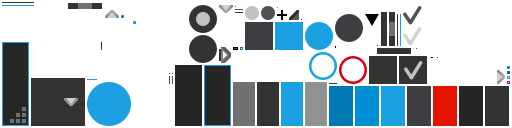
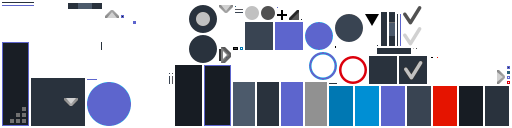
Changed the style.

diff --git a/core/src/net/pixelstatic/pixeleditor/modules/Main.java b/core/src/net/pixelstatic/pixeleditor/modules/Main.java
@@ -2,6 +2,7 @@ package net.pixelstatic.pixeleditor.modules;
 
 import java.lang.reflect.Field;
 
+import net.pixelstatic.gdxutils.graphics.Hue;
 import net.pixelstatic.gdxutils.graphics.Textures;
 import net.pixelstatic.pixeleditor.PixelEditor;
 import net.pixelstatic.pixeleditor.graphics.Palette;
@@ -16,19 +17,16 @@ import net.pixelstatic.utils.AndroidKeyboard;
 import net.pixelstatic.utils.MiscUtils;
 import net.pixelstatic.utils.dialogs.AndroidTextFieldDialog;
 import net.pixelstatic.utils.dialogs.TextFieldDialog;
+import net.pixelstatic.utils.io.TextureUnpacker;
 import net.pixelstatic.utils.modules.Module;
-import net.pixelstatic.utils.scene2D.AndroidColorPicker;
-import net.pixelstatic.utils.scene2D.ColorBox;
-import net.pixelstatic.utils.scene2D.SmoothCollapsibleWidget;
+import net.pixelstatic.utils.scene2D.*;
 
 import com.badlogic.gdx.Gdx;
 import com.badlogic.gdx.Preferences;
 import com.badlogic.gdx.files.FileHandle;
 import com.badlogic.gdx.graphics.Color;
-import com.badlogic.gdx.graphics.GL20;
-import com.badlogic.gdx.graphics.g2d.BitmapFont;
-import com.badlogic.gdx.graphics.g2d.TextureAtlas;
-import com.badlogic.gdx.graphics.g2d.TextureRegion;
+import com.badlogic.gdx.graphics.g2d.*;
+import com.badlogic.gdx.graphics.g2d.TextureAtlas.TextureAtlasData;
 import com.badlogic.gdx.graphics.g2d.freetype.FreeTypeFontGenerator;
 import com.badlogic.gdx.graphics.g2d.freetype.FreeTypeFontGenerator.FreeTypeFontParameter;
 import com.badlogic.gdx.scenes.scene2d.Actor;
@@ -54,6 +52,7 @@ public class Main extends Module<PixelEditor>{
 	public static Main i;
 	public static float s = 1f; //density scale
 	public final int largeImageSize = 128*128;
+	public final Color clearcolor = Color.valueOf("171c23");
 	public DrawingGrid drawgrid;
 	public Stage stage;
 	public FileHandle projectDirectory;
@@ -75,8 +74,7 @@ public class Main extends Module<PixelEditor>{
 
 	@Override
 	public void update(){
-		Gdx.gl.glClearColor(0.13f, 0.13f, 0.13f, 1);
-		Gdx.gl.glClear(GL20.GL_COLOR_BUFFER_BIT);
+		Hue.clearScreen(clearcolor);
 
 		if(FocusManager.getFocusedWidget() != null && ( !(FocusManager.getFocusedWidget() instanceof VisTextField))) FocusManager.resetFocus(stage);
 		
@@ -283,6 +281,7 @@ public class Main extends Module<PixelEditor>{
 
 			box.addListener(new ClickListener(){
 				public void clicked(InputEvent event, float x, float y){
+					apicker.addColorToPalette(boxes[paletteColor].getColor().cpy());
 					boxes[paletteColor].selected = false;
 					paletteColor = index;
 					prefs.putInteger("palettecolor", paletteColor);
@@ -320,6 +319,13 @@ public class Main extends Module<PixelEditor>{
 		drawgrid.setCanvas(new PixelCanvas(getCurrentProject().getCachedPixmap()));
 
 		stage.addActor(drawgrid);
+	}
+	
+	void setupStyles(){
+		ColorBox.defaultStyle.box = Color.valueOf("29323d");
+		ColorBox.defaultStyle.disabled = Color.valueOf("0f1317");
+		
+		ColorBar.borderColor = Color.valueOf("29323d");
 	}
 	
 	public void setPalette(Palette palette){
@@ -454,7 +460,8 @@ public class Main extends Module<PixelEditor>{
 		AndroidKeyboard.setListener(new DialogKeyboardMoveListener());
 
 		projectmanager.loadProjects();
-
+		
+		setupStyles();
 		setupTools();
 		setupColorPicker();
 		setupCanvas();
@@ -478,10 +485,10 @@ public class Main extends Module<PixelEditor>{
 			}
 		}, 20, 20);
 		
-		//TextureUnpacker packer = new TextureUnpacker();
+		TextureUnpacker packer = new TextureUnpacker();
 		
-		//TextureAtlasData data = new TextureAtlasData(Gdx.files.absolute("/home/cobalt/PixelEditor/android/assets/x2/uiskin.atlas"), Gdx.files.absolute("/home/cobalt/PixelEditor/android/assets/x2/"), false);
-		//packer.splitAtlas(data, Gdx.files.absolute("/home/cobalt/Documents/Sprites/uiout").file().getAbsoluteFile().toString());
+		TextureAtlasData data = new TextureAtlasData(Gdx.files.absolute("/home/cobalt/PixelEditor/android/assets/x2/uiskin.atlas"), Gdx.files.absolute("/home/cobalt/PixelEditor/android/assets/x2/"), false);
+		packer.splitAtlas(data, Gdx.files.absolute("/home/cobalt/Documents/Sprites/uiout").file().getAbsoluteFile().toString());
 		
 		//for unpacking the atlas
 		//AtlasUnpacker.unpack(VisUI.getSkin().getAtlas(), MiscUtils.getHomeDirectory().child("unpacked"));

diff --git a/core/src/net/pixelstatic/pixeleditor/scene2D/PaletteWidget.java b/core/src/net/pixelstatic/pixeleditor/scene2D/PaletteWidget.java
@@ -106,6 +106,8 @@ public class PaletteWidget extends VisTable{
 				table.add().size(size);
 			}
 		}
+		table.row();
+		table.add().height(5);
 		return table;
 	}
 
